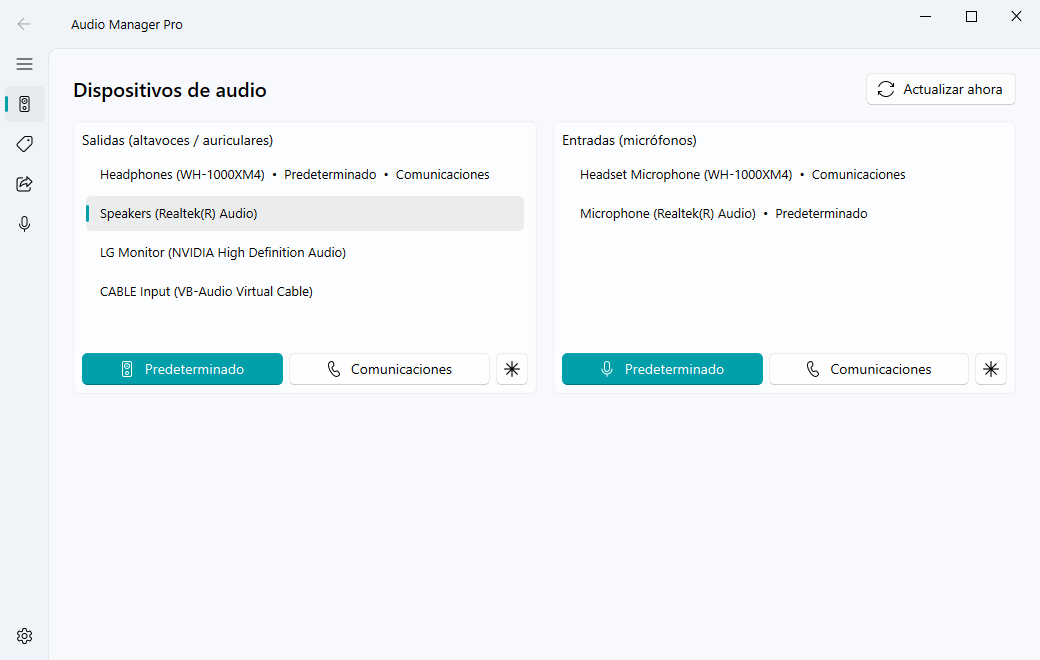
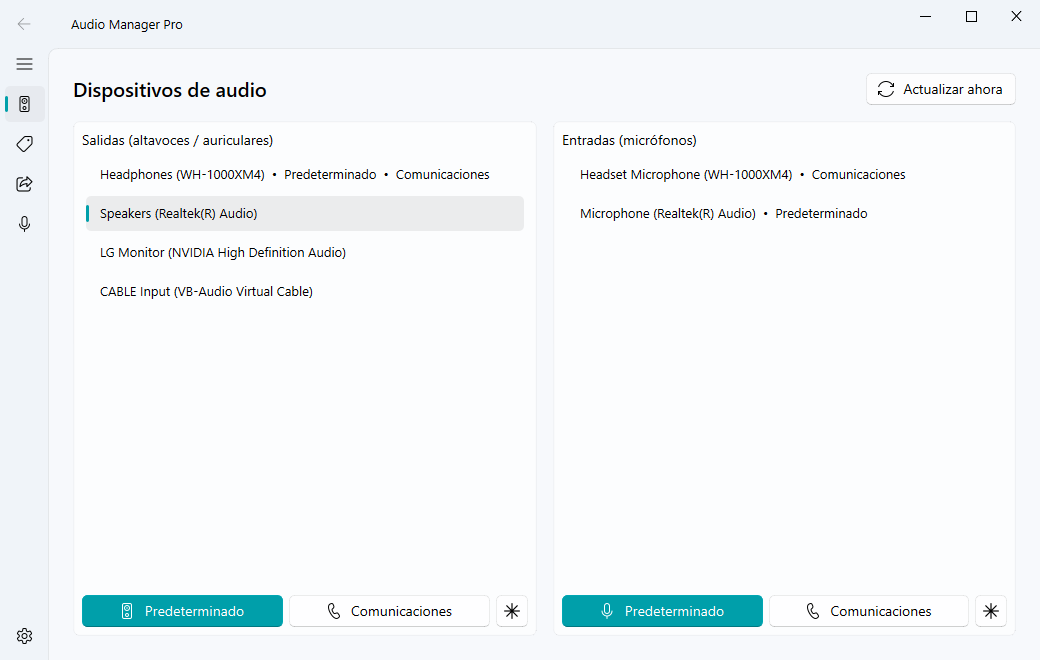
fix: la ventana se adapta al tamaño y versión 1.2.0
- Tablas y listas ocupan el alto disponible (antes un addStretch final se
  quedaba con el espacio y quedaban chicas con scroll).
- Formulario de Reglas: solo el texto se estira; "Quitar seleccionada" pasa
  junto a la ayuda para que entre en ventanas angostas.
- Tamaño inicial según la pantalla, centrada, con mínimo 900x560.
- version.py 1.2.0, CHANGELOG y capturas actualizadas.

diff --git a/ui/main_window.py b/ui/main_window.py
@@ -133,8 +133,9 @@ class DevicesPage(QWidget):
         in_layout.addLayout(in_btns)
         columns.addWidget(in_card)
 
-        layout.addLayout(columns)
-        layout.addStretch(1)
+        # Las listas ocupan todo el alto disponible (antes un addStretch se
+        # quedaba con el espacio extra y las listas no crecían con la ventana).
+        layout.addLayout(columns, 1)
 
         out, inp = Direction.OUTPUT, Direction.INPUT
         self.btn_refresh.clicked.connect(lambda: self.worker.refresh_requested.emit())
@@ -247,10 +248,10 @@ class RulesPage(QWidget):
         """)
 
         # Anchos predeterminados suficientes para ver los controles sin cortes
-        self.table.setColumnWidth(1, 150)
-        self.table.setColumnWidth(2, 170)
-        self.table.setColumnWidth(3, 170)
-        self.table.setColumnWidth(4, 80)
+        self.table.setColumnWidth(1, 140)
+        self.table.setColumnWidth(2, 175)
+        self.table.setColumnWidth(3, 145)
+        self.table.setColumnWidth(4, 70)
 
         header = self.table.horizontalHeader()
         header.setSectionResizeMode(0, QHeaderView.ResizeMode.Stretch)      # La celda de texto ocupa el espacio restante
@@ -262,10 +263,18 @@ class RulesPage(QWidget):
         # Las reglas se muestran de menor a mayor prioridad numérica
         header.setSortIndicator(3, Qt.SortOrder.AscendingOrder)
 
-        layout.addWidget(self.table)
-        layout.addWidget(CaptionLabel("Menor número = mayor prioridad. Las reglas de parlantes y las de "
-                                      "micrófono se evalúan por separado. Para quitar una regla, "
-                                      "seleccioná su fila haciendo clic en el texto."))
+        layout.addWidget(self.table, 1)  # la tabla crece con la ventana
+        hint = CaptionLabel("Menor número = mayor prioridad. Las reglas de parlantes y las de "
+                            "micrófono se evalúan por separado. Para quitar una regla, "
+                            "seleccioná su fila haciendo clic en el texto.")
+        hint.setWordWrap(True)  # en ventanas angostas no fuerza un ancho mínimo enorme
+        # "Quitar" actúa sobre la tabla: va junto a la ayuda, no en el formulario
+        # de alta (así el formulario entra completo en ventanas angostas).
+        self.btn_remove = PushButton(FIF.DELETE, "Quitar seleccionada")
+        hint_row = QHBoxLayout()
+        hint_row.addWidget(hint, 1)
+        hint_row.addWidget(self.btn_remove)
+        layout.addLayout(hint_row)
 
         form_row = QHBoxLayout()
 
@@ -283,14 +292,16 @@ class RulesPage(QWidget):
         self.combo_role = ComboBox()
         _fill_role_combo(self.combo_role)
         self.btn_add = PrimaryPushButton(FIF.ADD, "Agregar regla")
-        self.btn_remove = PushButton(FIF.DELETE, "Quitar seleccionada")
-        form_row.addWidget(self.input_match, 2)
-        form_row.addWidget(self.combo_type, 1)
-        form_row.addWidget(self.combo_role, 1)
+        # Solo el campo de texto se estira; los desplegables mantienen un ancho
+        # razonable en vez de repartirse el ancho de pantallas grandes.
+        for combo in (self.combo_type, self.combo_role):
+            combo.setMinimumWidth(150)
+        self.input_match.setMinimumWidth(160)
+        form_row.addWidget(self.input_match, 1)
+        form_row.addWidget(self.combo_type)
+        form_row.addWidget(self.combo_role)
         form_row.addWidget(self.btn_add)
-        form_row.addWidget(self.btn_remove)
         layout.addLayout(form_row)
-        layout.addStretch(1)
 
         # Al cambiar una prioridad no se reordena la tabla en cada paso del
         # SpinBox (eso destruía el widget mientras se editaba y hacía
@@ -558,7 +569,7 @@ class MirrorPage(QWidget):
         layout.addWidget(BodyLabel("Destinos adicionales:"))
         self.targets_list = ListWidget(self)
         self.targets_list.setSelectionMode(ListWidget.SelectionMode.MultiSelection)
-        layout.addWidget(self.targets_list)
+        layout.addWidget(self.targets_list, 1)  # la lista crece con la ventana
 
         btn_row = QHBoxLayout()
         self.btn_reload_devices = PushButton(FIF.SYNC, "Recargar dispositivos WASAPI")
@@ -571,7 +582,6 @@ class MirrorPage(QWidget):
         btn_row.addWidget(self.btn_start)
         btn_row.addWidget(self.btn_stop)
         layout.addLayout(btn_row)
-        layout.addStretch(1)
 
         self.btn_reload_devices.clicked.connect(lambda: self.worker.mirror_devices_requested.emit())
         self.btn_start.clicked.connect(self._start_mirror)
@@ -730,7 +740,7 @@ class MainWindow(FluentWindow):
         self.config = config
         self._shut_down = False
         self.setWindowTitle(APP_NAME)
-        self.resize(980, 640)
+        self._fit_to_screen()
         setTheme(_THEMES.get(config.theme, Theme.AUTO))  # "auto" sigue el modo del sistema
 
         self.backend_thread, self.worker = make_backend_thread(config)
@@ -759,6 +769,25 @@ class MainWindow(FluentWindow):
         self.rules_page.rules_changed.connect(lambda: self.worker.rules_changed.emit())
 
         self.backend_thread.start()
+
+    def _fit_to_screen(self) -> None:
+        """Tamaño inicial según la pantalla (antes era fijo 980x640): en
+        monitores chicos no se sale de la pantalla y en grandes aprovecha
+        más espacio. Queda centrada en el área disponible."""
+        min_w, min_h = 900, 560  # por debajo, la tabla de reglas y su formulario se pisan
+        screen = QApplication.primaryScreen()
+        if screen is None:
+            self.setMinimumSize(min_w, min_h)
+            self.resize(1040, 680)
+            return
+        area = screen.availableGeometry()
+        # En pantallas más chicas que el mínimo, el mínimo es la pantalla.
+        min_w, min_h = min(min_w, area.width()), min(min_h, area.height())
+        self.setMinimumSize(min_w, min_h)
+        width = max(min_w, min(int(area.width() * 0.6), 1280))
+        height = max(min_h, min(int(area.height() * 0.7), 820))
+        self.resize(width, height)
+        self.move(area.x() + (area.width() - width) // 2, area.y() + (area.height() - height) // 2)
 
     @Slot(str)
     def _on_rule_applied(self, message: str) -> None:

diff --git a/version.py b/version.py
@@ -10,4 +10,4 @@ Al publicar una versión nueva solo hay que cambiar `__version__`.
 APP_NAME = "Audio Manager Pro"
 APP_EXE = "AudioManagerPro"
 PUBLISHER = "Famá Román"
-__version__ = "1.1.0"
+__version__ = "1.2.0"

diff --git a/CHANGELOG.md b/CHANGELOG.md
@@ -4,12 +4,19 @@ All notable changes to this project are documented here.
 The format is based on [Keep a Changelog](https://keepachangelog.com/en/1.1.0/)
 and the project uses [Semantic Versioning](https://semver.org/).
 
-## [Unreleased]
+## [1.2.0] - 2026-11-21
 
 ### Added
 - **Microphone rules**: each automatic rule now has a type — speakers/headphones
   (output) or microphone (input). Output and microphone rules are evaluated
   independently, per role. Existing rules keep working as output rules.
+
+### Fixed
+- The window content did not adapt when resizing: the rules table and the
+  device/mirroring lists stayed small (with a scrollbar) while the extra space
+  was left empty, and the rule form drop-downs stretched across wide screens.
+- The initial window size is now based on the screen (it was a fixed
+  980×640) and the window opens centered, with a minimum size.
 
 ## [1.1.0] - 2026-11-08
 
@@ -60,4 +67,5 @@ and the project uses [Semantic Versioning](https://semver.org/).
   communications), priority rules with negation syntax, WASAPI loopback
   mirroring, system tray menu.
 
+[1.2.0]: https://github.com/RomanFama592/audio-manager-pro/releases/tag/v1.2.0
 [1.1.0]: https://github.com/RomanFama592/audio-manager-pro/releases/tag/v1.1.0
